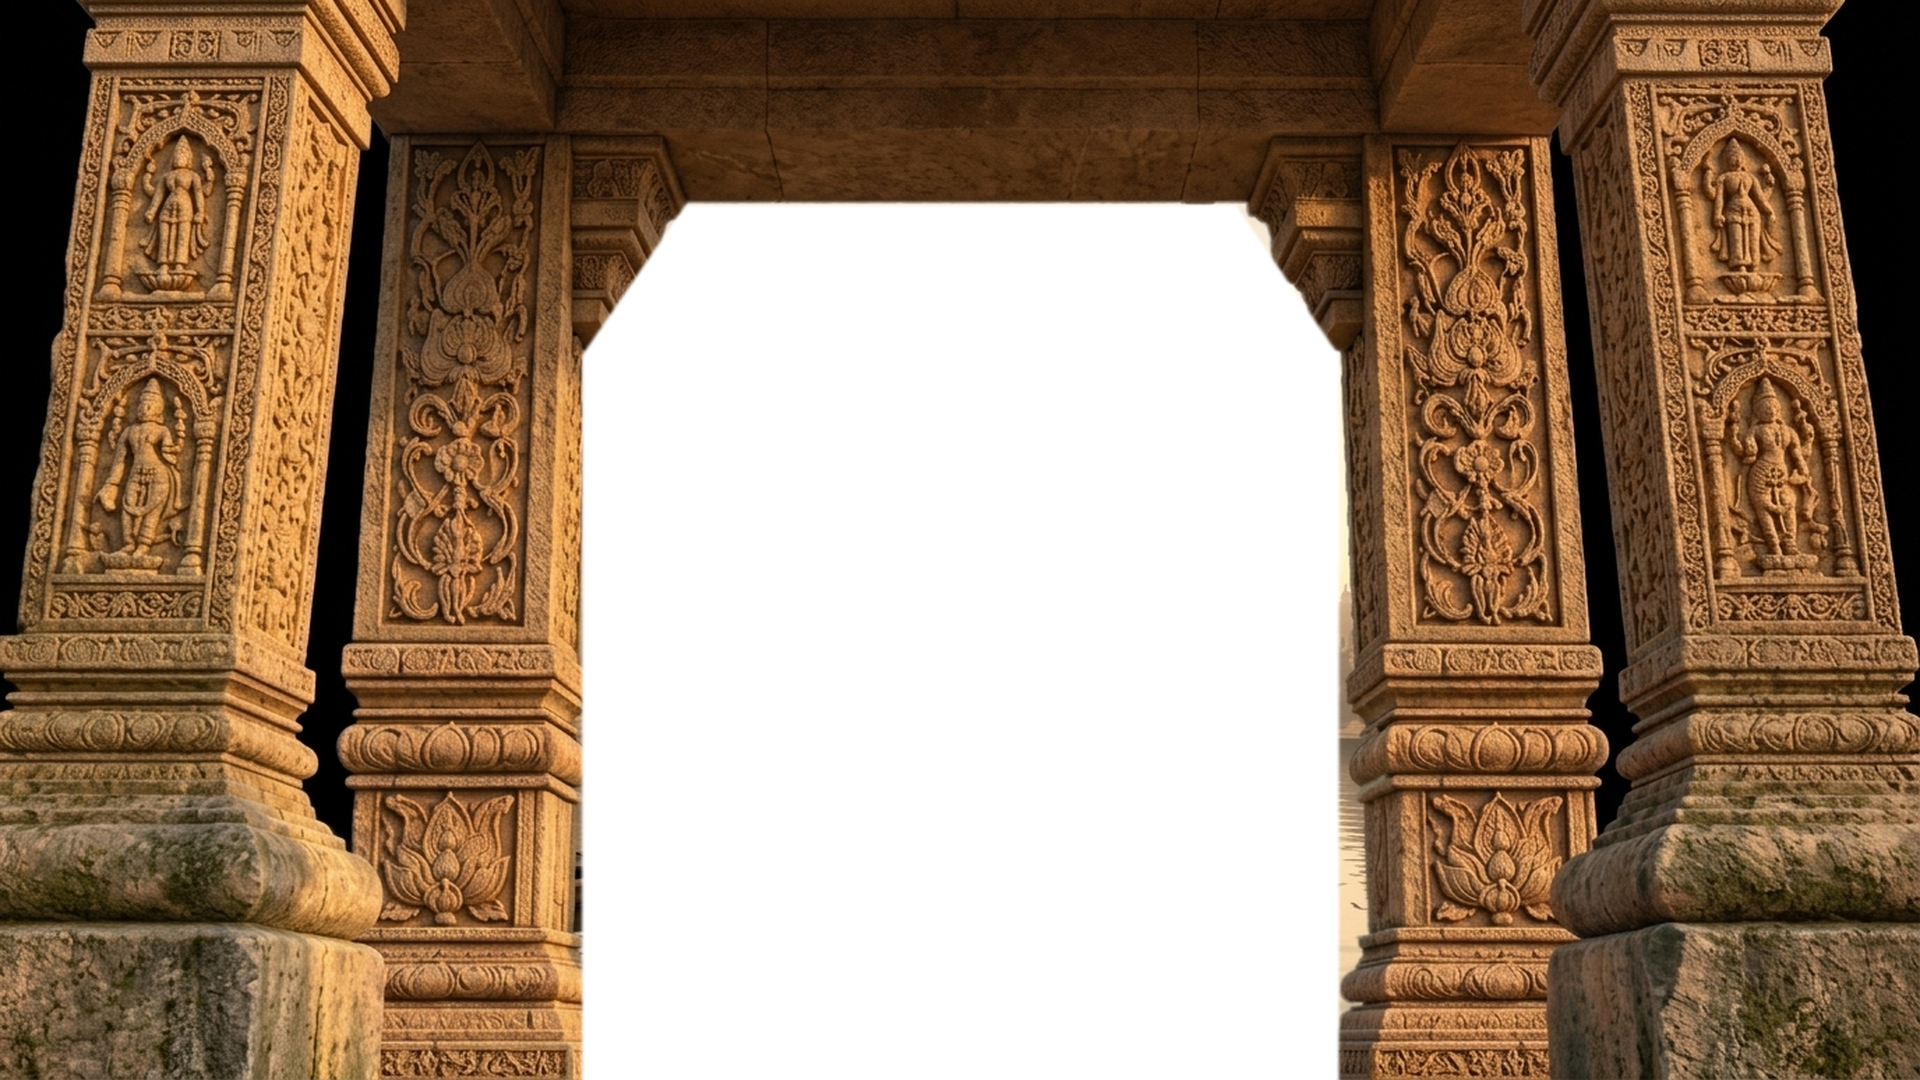
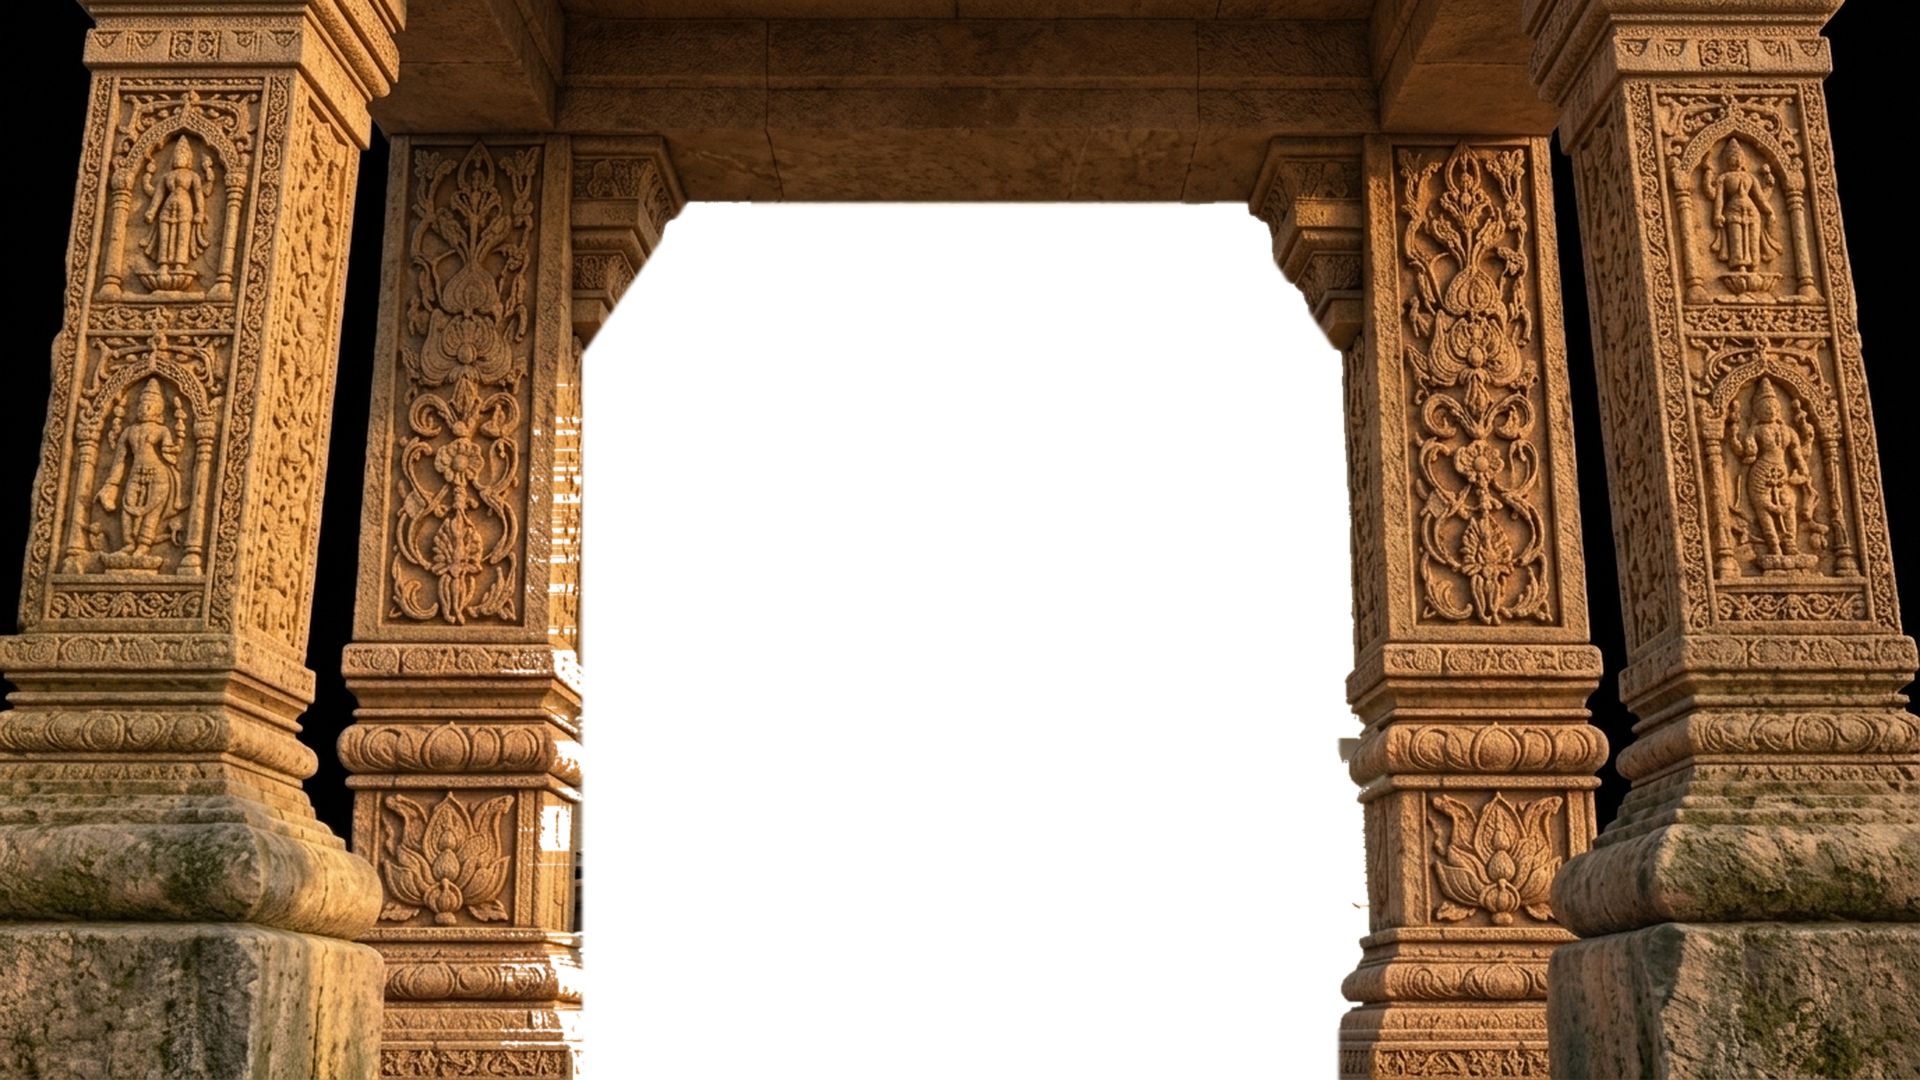
Fix: Remove unmasked background artifact from pillar edge and choreograph hero so it stands cleanly after Plot before dissolving into Section 2

diff --git a/script.js b/script.js
@@ -73,34 +73,29 @@ function updateParallax() {
 
   // --------------------------------------------------------------------------
   // FOREGROUND CARVED STONE PILLARS PARTING (Left & Right Outward Zoom)
-  // Scale from 1.0 to 1.70 between p=0.15 and p=0.65
-  // Left pillar moves -X, Right pillar moves +X
   // --------------------------------------------------------------------------
   let pillarScale = 1.0;
   let pillarTranslateY = 0;
   let pillarTranslateX = 0;
   let pillarOpacity = 1.0;
 
-  if (p >= 0.15 && p <= 0.65) {
-    const t = (p - 0.15) / 0.50;
+  if (p >= 0.12 && p <= 0.60) {
+    const t = (p - 0.12) / 0.48;
     pillarScale = 1.0 + t * 0.70; // 1.0 -> 1.70
     pillarTranslateX = t * 400; // 0 -> 400px outward parting
-  } else if (p > 0.65) {
+  } else if (p > 0.60) {
     pillarScale = 1.70;
     pillarTranslateX = 400;
   }
 
-  // Move up offscreen after p=0.65
-  if (p >= 0.65 && p <= 0.88) {
-    const t = (p - 0.65) / 0.23;
-    pillarTranslateY = -t * 380; // 0 -> -380px
-  } else if (p > 0.88) {
+  // Move up and fade out cleanly
+  if (p >= 0.60 && p <= 0.78) {
+    const t = (p - 0.60) / 0.18;
+    pillarTranslateY = -t * 380;
+    pillarOpacity = Math.max(0, 1.0 - t);
+  } else if (p > 0.78) {
     pillarTranslateY = -380;
-  }
-
-  // Fade out gently after p=0.74
-  if (p >= 0.74) {
-    pillarOpacity = Math.max(0, 1 - (p - 0.74) / 0.16);
+    pillarOpacity = 0.0;
   }
 
   if (elements.pillarLeft) {
@@ -119,34 +114,47 @@ function updateParallax() {
   }
 
   // --------------------------------------------------------------------------
-  // BACKGROUND OCEAN (bg-main)
-  // Subtle camera push forward (1.0 -> 1.25)
+  // BACKGROUND SCENE & TRAVELER (bg-main)
+  // 1. Subtle camera push forward (1.0 -> 1.25)
+  // 2. STOOD THERE (p=0.78 to 0.88): Pristine, unobstructed hero image
+  // 3. SMOOTHLY GOES AWAY (p=0.88 to 0.98): Gentle dissolve into warm ivory
   // --------------------------------------------------------------------------
   let oceanScale = 1.0;
-  if (p >= 0.15 && p <= 0.72) {
-    const t = (p - 0.15) / 0.57;
+  let oceanOpacity = 1.0;
+
+  if (p >= 0.15 && p <= 0.70) {
+    const t = (p - 0.15) / 0.55;
     oceanScale = 1.0 + t * 0.25; // 1.0 -> 1.25
-  } else if (p > 0.72) {
+  } else if (p > 0.70 && p <= 0.88) {
+    // Hero image stands firmly in full view
     oceanScale = 1.25;
+    oceanOpacity = 1.0;
+  } else if (p > 0.88 && p <= 0.98) {
+    // Smoothly it dissolves away into the warm ivory background
+    const t = (p - 0.88) / 0.10;
+    oceanScale = 1.25 + t * 0.06; // 1.25 -> 1.31
+    oceanOpacity = Math.max(0, 1.0 - t);
+  } else if (p > 0.98) {
+    oceanScale = 1.31;
+    oceanOpacity = 0.0;
   }
 
   if (elements.bgMain) {
     elements.bgMain.style.transform = `scale(${oceanScale})`;
+    elements.bgMain.style.opacity = oceanOpacity;
   }
 
   // --------------------------------------------------------------------------
-  // TITLE: The story of THE GOONIES (hero-parent)
-  // Screenshot 1: Full opacity at p <= 0.18
-  // Screenshot 2: Logo fades from 1.0 -> 0 between p=0.18 and p=0.38
+  // TITLE: ALPHAKORE HERO BRANDING (hero-parent)
   // --------------------------------------------------------------------------
   let titleOpacity = 1.0;
   let titleScale = 1.0;
 
-  if (p <= 0.18) {
+  if (p <= 0.16) {
     titleOpacity = 1.0;
     titleScale = 1.0;
-  } else if (p > 0.18 && p <= 0.38) {
-    const t = (p - 0.18) / 0.20;
+  } else if (p > 0.16 && p <= 0.34) {
+    const t = (p - 0.16) / 0.18;
     titleOpacity = Math.max(0, 1.0 - t);
     titleScale = 1.0 + t * 0.12;
   } else {
@@ -165,23 +173,24 @@ function updateParallax() {
   }
 
   // --------------------------------------------------------------------------
-  // SCREENSHOTS 3 & 4: PLOT HEADLINE & SYNOPSIS (intro-parent)
-  // Fades in at p=0.36, reaches 100% opacity at p=0.50, stays solid until p=0.72
+  // PLOT HEADLINE & SYNOPSIS (intro-parent)
+  // Fades in at p=0.32, solid until p=0.66, then fades out by p=0.78
+  // Leaving p=0.78 to 0.88 for the hero image to stand there completely clear!
   // --------------------------------------------------------------------------
   let plotOpacity = 0.0;
-  let plotTranslateY = 45;
+  let plotTranslateY = 35;
 
-  if (p >= 0.36 && p <= 0.50) {
-    const t = (p - 0.36) / 0.14;
+  if (p >= 0.32 && p <= 0.45) {
+    const t = (p - 0.32) / 0.13;
     plotOpacity = t;
-    plotTranslateY = 40 * (1 - t);
-  } else if (p > 0.50 && p <= 0.82) {
+    plotTranslateY = 35 * (1 - t);
+  } else if (p > 0.45 && p <= 0.66) {
     plotOpacity = 1.0;
     plotTranslateY = 0;
-  } else if (p > 0.82 && p <= 0.98) {
-    const t = (p - 0.82) / 0.16;
+  } else if (p > 0.66 && p <= 0.78) {
+    const t = (p - 0.66) / 0.12;
     plotOpacity = Math.max(0, 1.0 - t);
-    plotTranslateY = -t * 28;
+    plotTranslateY = -t * 25;
   } else {
     plotOpacity = 0.0;
   }
@@ -201,13 +210,13 @@ function updateParallax() {
 
   // Vertical line draw below Plot
   let lineY = -100;
-  if (p >= 0.56 && p <= 0.78) {
-    const t = (p - 0.56) / 0.22;
+  if (p >= 0.48 && p <= 0.64) {
+    const t = (p - 0.48) / 0.16;
     lineY = -100 + t * 100; // -100% -> 0% (drawing down!)
-  } else if (p > 0.78 && p <= 0.96) {
-    const t = (p - 0.78) / 0.18;
+  } else if (p > 0.66 && p <= 0.78) {
+    const t = (p - 0.66) / 0.12;
     lineY = t * 100; // 0% -> 100% (exits down)
-  } else if (p > 0.96) {
+  } else if (p > 0.78) {
     lineY = 100;
   }
 

diff --git a/styles.css b/styles.css
@@ -447,7 +447,7 @@ body.loading-active {
    ========================================================================== */
 .scroll-container {
   width: 100%;
-  height: 210vh;
+  height: 270vh;
   position: relative;
   background-color: #f4eee6;
 }
@@ -473,11 +473,11 @@ body.loading-active {
   background-image: url('assets/alphakore_hero_v2.jpg');
   background-position: 50% 50%;
   background-size: cover;
-  background-color: #000000;
+  background-color: #f4eee6;
   background-repeat: no-repeat;
   z-index: 0;
   transform-origin: 50% 50%;
-  will-change: transform;
+  will-change: transform, opacity;
 }
 
 body.theme-goonies .sticky-container,
